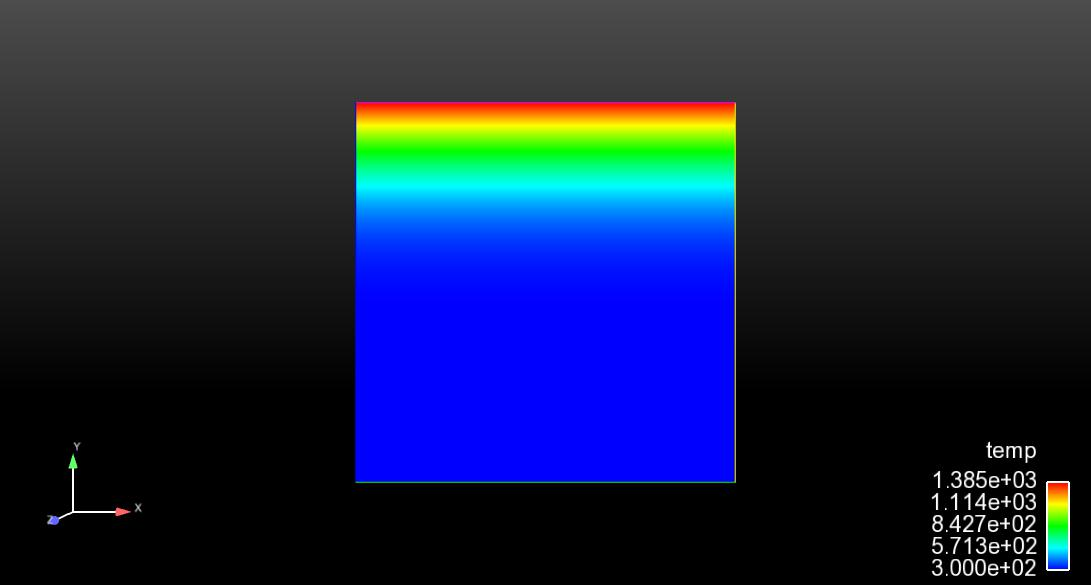
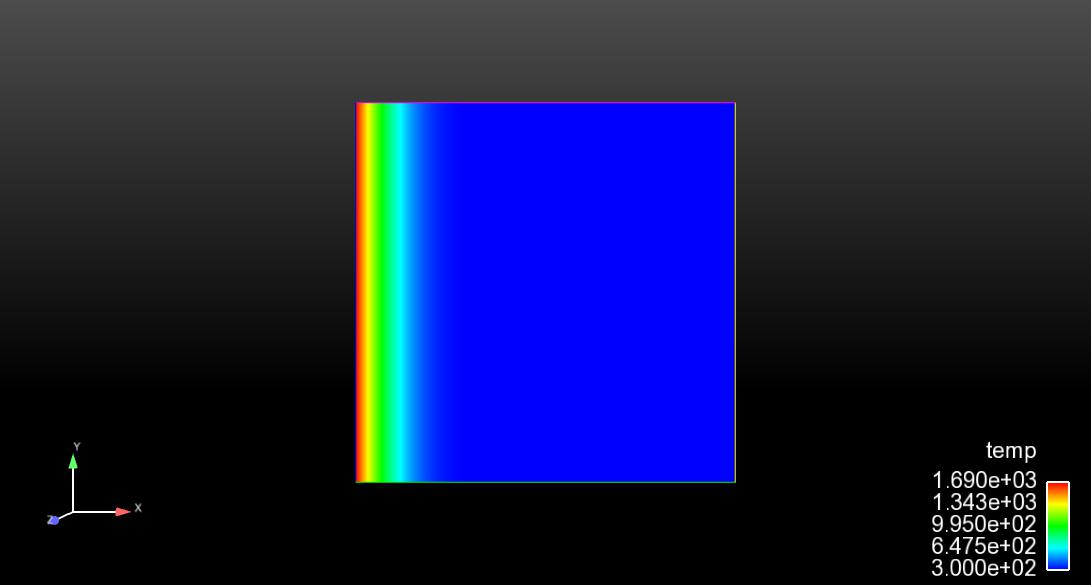
渗透率张量及读取热流修改

Changed region(s): [[0.3116, 0.1538, 0.6856, 0.8308], [0.8414, 0.8, 0.9661, 0.9538]]

diff --git a/src/bcs/HeatRadiationBC.C b/src/bcs/HeatRadiationBC.C
@@ -60,6 +60,11 @@ void HeatRadiationBC::computeResidual()
 		pts.push_back(_q_point[ip]);
 	}
 	interpolate(qc, ts, pts, _t);
+	for(int ip = 0; ip < _q_point.size(); ++ip)
+	{
+	   _qc[ip] = qc[ip];
+	   _ts[ip] = ts[ip];
+	}
 
 	IntegratedBC::computeResidual();
 }
@@ -73,6 +78,12 @@ void HeatRadiationBC::computeJacobian()
 		pts.push_back(_q_point[ip]);
 	}
 	interpolate(qc, ts, pts, _t);
+
+	for(int ip = 0; ip < _q_point.size(); ++ip)
+	{
+	   _qc[ip] = qc[ip];
+	   _ts[ip] = ts[ip];
+	}
 
 	IntegratedBC::computeJacobian();
 }
@@ -125,15 +136,15 @@ void HeatRadiationBC::readqcfile()
     		{
     			store.push_back(d);
     			store[j] = d;
-    			cout<<"store["<<j<<"]="<<store[j]<<endl;
+//    			cout<<"store["<<j<<"]="<<store[j]<<endl;
     			j+=1;
     		}
     	   Point pp(store[0],store[1],store[2]);
     		_src_qc[t].push_back(store[3]);
     		_src_ts[t].push_back(store[4]);
     		_src_pts[t].push_back(pp);
-    		cout<<"_src_qc["<<t<<"]"<<"["<<i<<"]="<<_src_qc[t][i]<<endl;
-    		cout<<"_src_ts["<<t<<"]"<<"["<<i<<"]="<<_src_ts[t][i]<<endl;
+//    		cout<<"_src_qc["<<t<<"]"<<"["<<i<<"]="<<_src_qc[t][i]<<endl;
+//    		cout<<"_src_ts["<<t<<"]"<<"["<<i<<"]="<<_src_ts[t][i]<<endl;
     	}
     	_time_step.push_back(store[7]);
 	}

diff --git a/src/auxkernels/PyrolysisGasVelocity.C b/src/auxkernels/PyrolysisGasVelocity.C
@@ -9,6 +9,7 @@ InputParameters validParams<PyrolysisGasVelocity>()
 
   params.addRequiredParam<MooseEnum>("component", component, "The desired component of velocity.");
   params.addRequiredCoupledVar("pressure", "The pressure field.");
+  params.addRequiredParam<RealTensorValue>("tensor_kp", "The Tensor of kp");
 //  params.addRequiredParam<VariableName>("pressure", "The pressure field.");
   return params;
 }
@@ -16,7 +17,7 @@ InputParameters validParams<PyrolysisGasVelocity>()
 PyrolysisGasVelocity::PyrolysisGasVelocity(const std::string & name, InputParameters parameters) :
     AuxKernel(name, parameters),
 	_rhog(10),
-	_kp( 8.968e-9),
+	_kp(getParam<RealTensorValue>("tensor_kp")),
 	_viscosity(1.98e-5),
 	_poro(0.3),
     _component(getParam<MooseEnum>("component")),
@@ -27,6 +28,7 @@ PyrolysisGasVelocity::PyrolysisGasVelocity(const std::string & name, InputParame
 Real
 PyrolysisGasVelocity::computeValue()
 {
-
-  return -_kp/_viscosity/_poro*_pressure_gradient[_qp](_component);
+	RealVectorValue tmp = _kp/_viscosity/_poro*_pressure_gradient[_qp];
+  return -tmp(_component);
+//  return -_kp/_viscosity/_poro*_pressure_gradient[_qp](_component);
 }

diff --git a/src/kernels/GasConvection.C b/src/kernels/GasConvection.C
@@ -6,13 +6,14 @@ InputParameters validParams<GasConvection>()
 {
   InputParameters params = validParams<Kernel>();
   params.addRequiredCoupledVar("pressure", "The pressure field.");
+  params.addRequiredParam<RealTensorValue>("tensor_kp", "The Tensor of kp");
   return params;
 }
 
 GasConvection::GasConvection(const std::string & name, InputParameters parameters) :
 		Kernel(name, parameters),
-	_rhog(10),
-	_kp( 8.968e-10),
+	_rhog(1000),
+	_kp(getParam<RealTensorValue>("tensor_kp")),
 	_viscosity(1.98e-5),
 	_poro(0.3),
     _pressure_gradient(coupledGradient("pressure")),

diff --git a/include/kernels/GasConvection.h b/include/kernels/GasConvection.h
@@ -15,7 +15,7 @@ protected:
 
 private:
     Real _rhog;
-    Real _kp;
+    RealTensorValue _kp;
     Real _viscosity;
     Real _poro;
     VariableGradient & _pressure_gradient;

diff --git a/include/auxkernels/PyrolysisGasVelocity.h b/include/auxkernels/PyrolysisGasVelocity.h
@@ -16,7 +16,7 @@ public:
 protected:
   virtual Real computeValue();
   Real _rhog;
-  Real _kp;
+  RealTensorValue _kp;
   Real _viscosity;
   Real _poro;
   int _component;
